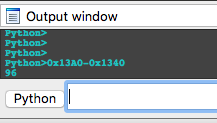
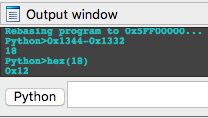
fix ramdisk skip oof

diff --git a/dualboot/patching.html b/dualboot/patching.html
@@ -168,17 +168,26 @@
 		Remember earlier about not using a ramdisk? We really don't need ramdisk. It doesn't serve much of a purpose. It's just there because of the routine.<br>
 		Go to <a href="http://armconverter.com/branchfinder/" target="_blank">this webpage</a> and change ARM64 to ARMv7 THUMB - New Engine.<br>
 		Below, there is a python cli we can use, as we need to do some calculations. We are going to load the kernelcache by replacing the loading of ramdisk.<br>
-		Click where "DCD aBootKernelcach " is (along the other string references. Under the addresses on the left, enter the offset where the <br>
-		instruction is: 0x13A0 in the command line.<br> Then, click on where "LDR R0, =aFailedToLoadRa" is. Do the same as before. My offset is 0x1340.
 	</p>
 
-	<p>This is what you should have so far.</p>
+	<p>
+		If you want to make it easier for yourself, you can name functions in IDA to whatever you want. To do this click a function as below and then press n.<br>
+		It will show a prompt asking to enter a name. You cannot duplicate function names. This will help you to easily see where and what to change. Look below.
+	</p>
+
+	<img src="../resources/pictures/ibec-name.png">
+
+	<p>
+		We need to calculate values in order to complete in skipping ramdisk loading. We do this by grabbing the offset of "upgrade_load_kernelcache" (0x1344)<br>
+		then the same for "upgrade_load_ramdisk," (0x1332) except we want the CBZ R0 instruction's offset. Enter them as seen below, in the cli.<br>
+		Subtract the offsets in the Python cli below and turn it into a hex value so we can figure out our THUMB instruction to enter.
+	</p>
 
 	<img src="../resources/pictures/ibec-offset.png">
 
 	<p>
-		Press enter and you should get 96. Now in the cli, enter hex(96) or whatever offset of whatever version you are using. You should get 0x60.<br>
-		In the webpage, add in the offset of where we want to load our instruction (0x1340) on the left. Enter the instruction I entered.
+		Press enter and you should get 18. Now in the cli, enter hex(18) or whatever offset of whatever version you are using. You should get 0x12.<br>
+		In the webpage, add in the offset of where we want to load our instruction (0x1332) on the left. Enter the instruction I entered.
 	</p>	
 
 	<p>It should look like this.</p>
@@ -186,8 +195,8 @@
 	<img src="../resources/pictures/ibec-webpage.png">
 
 	<p>
-		Remove 0x100 from 1848 -> 1748. This is what we need to replace the loading of the ramdisk and instead load the kernelcache.<br>
-		Go back to 0x1340, make sure you're on the line, enter hex, press F2 and replace "15 48" with "17 48." It should like like this.
+		This is what we need to replace the loading of the ramdisk and instead load the kernelcache. Enter hex view and replace "CBZ R0, upgrade_load_ramdisk"<br>
+		with "38 B1." This will completely remove the loading of the ramdisk and load the kernelcache instead. It should look like this.
 	</p>
 
 	<img src="../resources/pictures/ibec-ramdisk.png">
